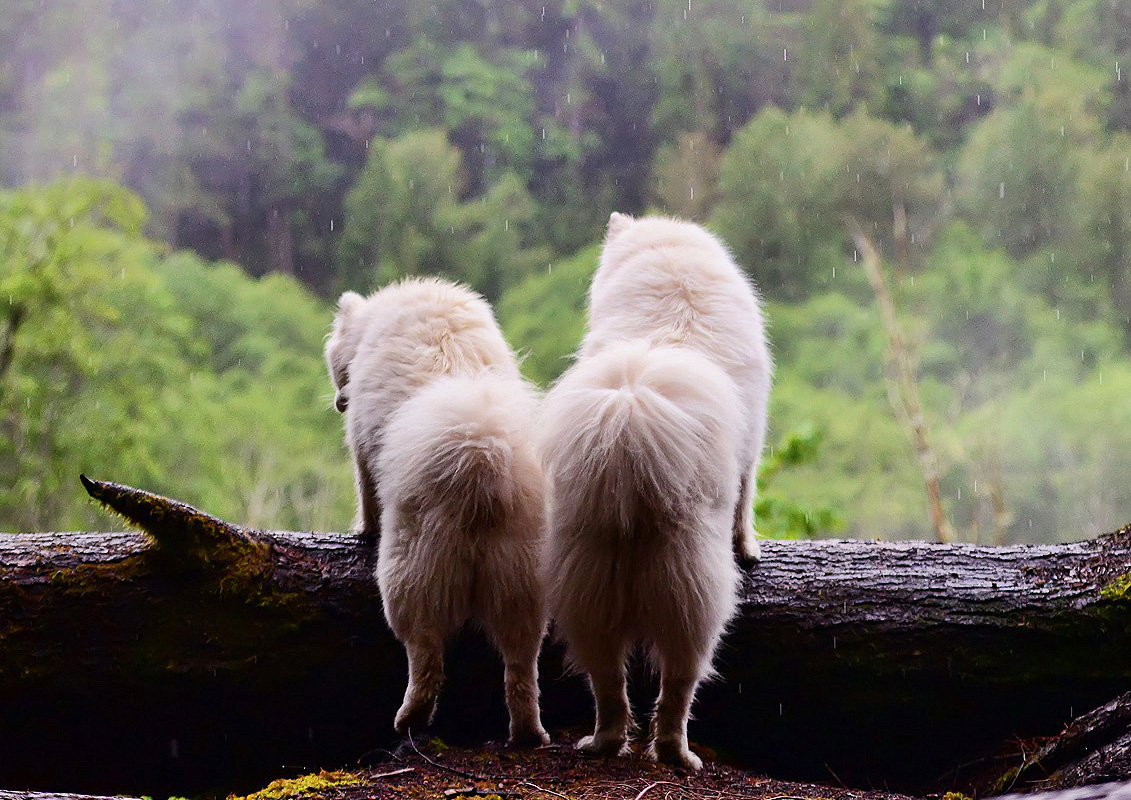
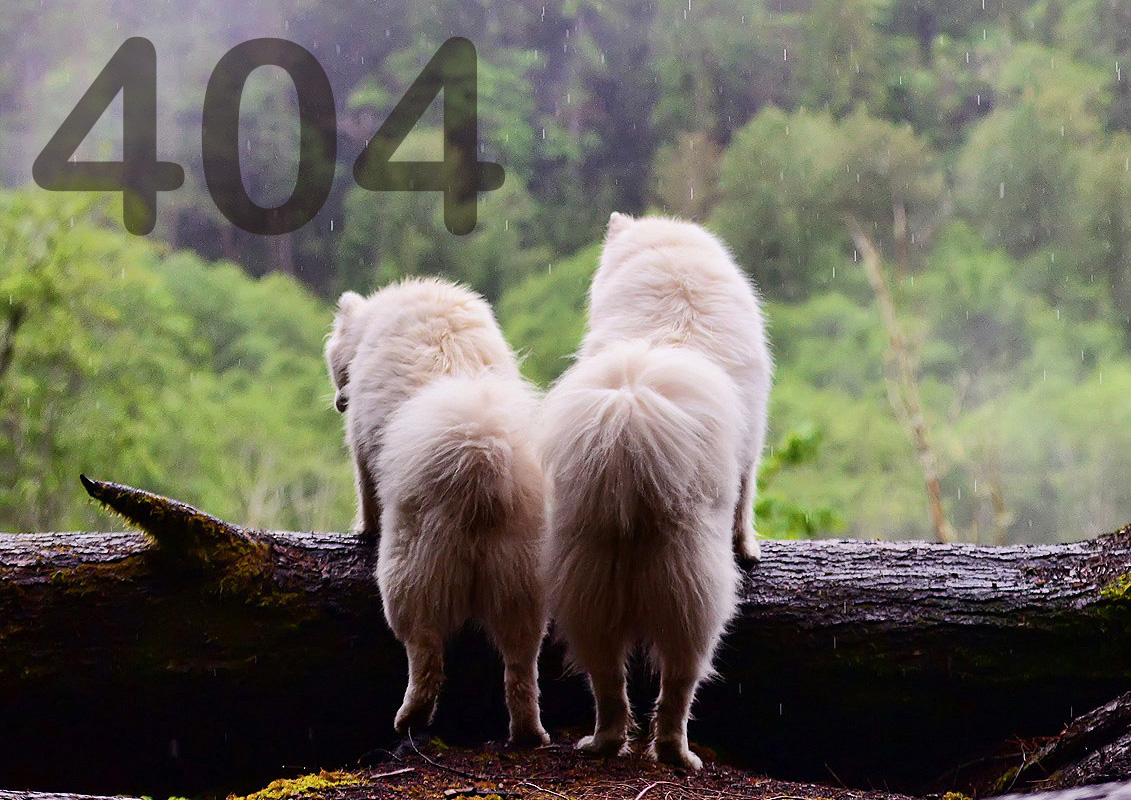
finish 404 page

Changed region(s): [[0.0309, 0.0312, 0.4642, 0.3125]]

diff --git a/routes.py b/routes.py
@@ -25,7 +25,7 @@ def album(topic): #----------------------------------------------------------<<<
 @view('404error')
 def custom404handler(error): #-----------------------------------------------<<<
     """Custom handler for 404 errors."""
-    return dict(error=error)
+    return dict(err=error)
 
 def get_album(album_id, albumdict=None): #-----------------------------------<<<
     """For specified album id, return (name, description, photos).
